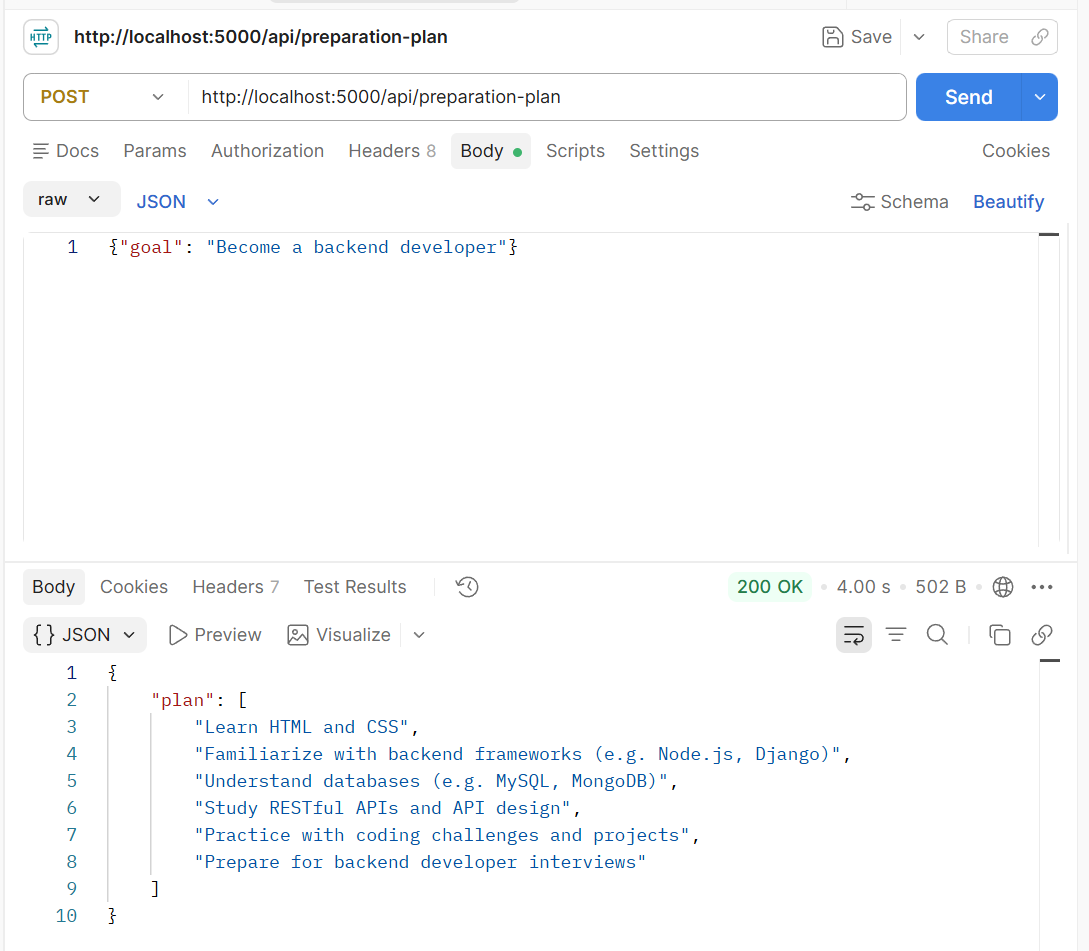
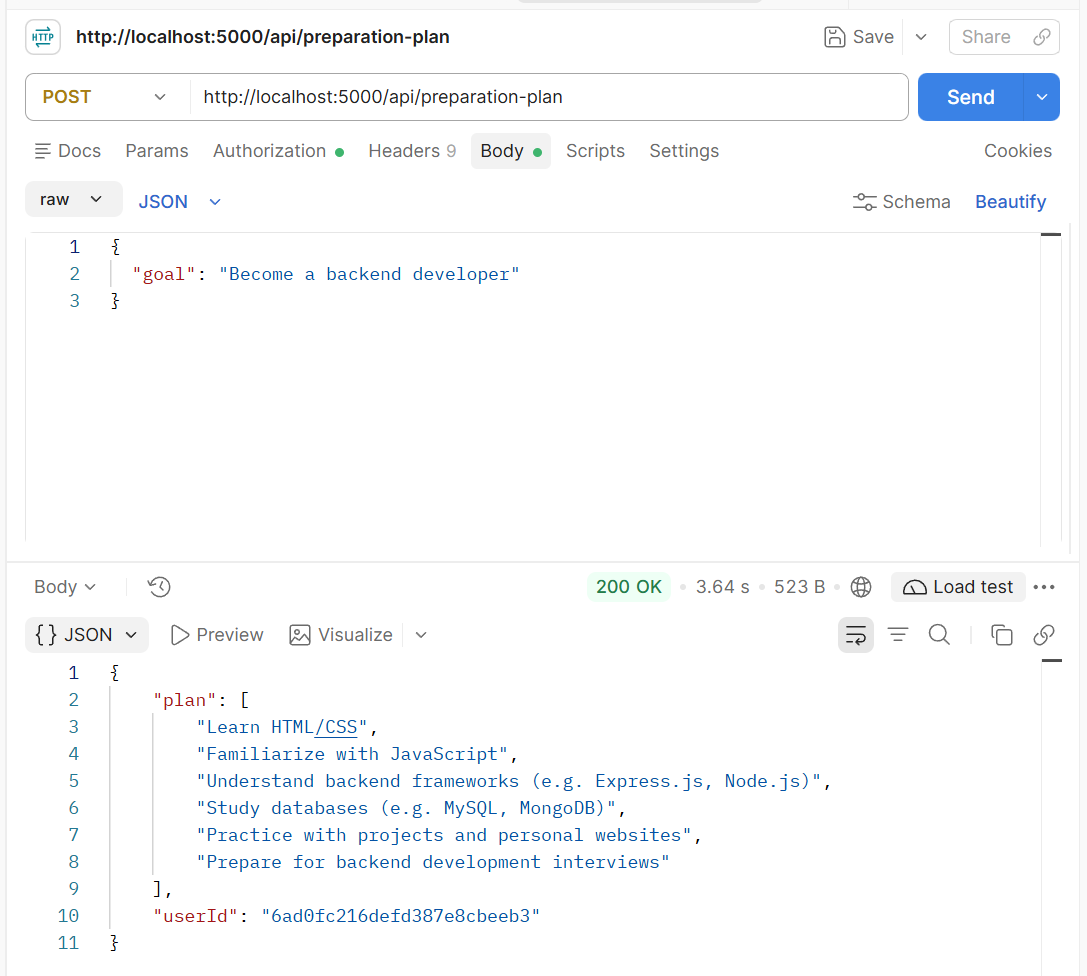
Add JWT tests for Preparation Plan, update API test report and screenshots

diff --git a/test-apis.js b/test-apis.js
@@ -158,9 +158,16 @@ async function main() {
   show("Career chat", "POST", "/api/career-chat", "200 and a text response", r,
     r.status === 200 && typeof r.json?.response === "string" && r.json.response.length > 0);
 
-  // Member 62 - preparation plan
+  // Member 62 - preparation plan (now protected by JWT)
   r = await call("POST", "/api/preparation-plan", { body: { goal: "Become a backend developer" } });
-  show("Preparation plan", "POST", "/api/preparation-plan", "200 or 201 with a plan", r, [200, 201].includes(r.status) && r.text.length > 0);
+  show("Preparation plan - no token", "POST", "/api/preparation-plan", "401", r, r.status === 401);
+
+  if (token) {
+    r = await call("POST", "/api/preparation-plan", { token, body: { goal: "Become a backend developer" } });
+    show("Preparation plan - valid token", "POST", "/api/preparation-plan", "200 or 201 with a plan", r, [200, 201].includes(r.status) && r.text.length > 0);
+  } else {
+    skip("Preparation plan - valid token", "POST", "/api/preparation-plan", "login did not return a token");
+  }
 
     // Member 58 - RAG / vector search
   skip("RAG vector search", "-", "(no search route)", "Dependency Pending - no search route in main; vectorSearchService.js is not wired to any API");

diff --git a/API_TEST_REPORT.md b/API_TEST_REPORT.md
@@ -2,8 +2,8 @@
 
 - **Project:** Career Evidence and Portfolio Coach
 - **Tester:** Member 63
-- **Date:** 10 October 2026 (first test runs), 11 October 2026 (retest after Member 62's fix)
-- **Code tested:** latest `main` branch of the team repository. The retest includes Member 62's fix (pull request #7).
+- **Date:** 10 October 2026 (first test runs), 11 October 2026 (retest after Member 62's fix), 15 October 2026 (rerun after the JWT change)
+- **Code tested:** latest `main` branch of the team repository. The retest includes Member 62's fix (pull request #7). The 15 October run also includes Member 62's JWT change, which is now merged into `main`.
 - **Environment:** server running locally at `http://localhost:5000`, connected to the team's MongoDB Atlas database
 - **How it was run:** `node test-apis.js "<path to a sample PDF>"`
 
@@ -18,6 +18,7 @@
 | Retest after the fix: passed in each run | 20 of 20 |
 | Retest after the fix: failed | 0 |
 | Not tested | 1 (RAG vector search, Dependency Pending) |
+| Latest run after the JWT change (21 tests) | 21 passed, 0 failed, 1 not tested |
 
 One run before the fix gave 19 passed and 1 failed. The failure was **Preparation Plan** (`500`, "Failed to generate plan"). The server log for that run showed `AI error: Unexpected end of JSON input`. The same API passed in the other runs, so it was intermittent. Member 62 then merged a fix, and after pulling it and restarting the server, all 5 retest runs passed. See "Bugs Discovered".
 
@@ -48,13 +49,14 @@ The script checks the status code and that a response body is present (for Caree
 | Evidence, delete | DELETE | Record deleted | 200 | Pass |
 | Evidence, get after delete | GET | 404 | 404 | Pass |
 | Career Chat, `/api/career-chat` | POST | Answer returned | 200 with a text response (local Ollama, `llama3.2`) | Pass |
-| Preparation Plan, `/api/preparation-plan` | POST | Plan returned | 200 with a plan. One 500 before the fix; 5 of 5 retest runs passed after the fix | Pass (retested after fix) |
+| Preparation Plan, `/api/preparation-plan` (no token) | POST | 401 Unauthorized | 401 (route is now protected by JWT after Member 62's change) | Pass |
+| Preparation Plan, `/api/preparation-plan` (valid Bearer token) | POST | Plan returned | 200 with a plan. One 500 before PR #7; 5 of 5 retest runs passed after it; passes with a token after the JWT change | Pass (retested after fix and JWT) |
 
 ## APIs Not Tested and Why
 
 | API | Owner | Reason |
 |---|---|---|
-| RAG vector search | Member 58 | Not Tested - Dependency Pending. No search route exists in `main`: `vectorSearchService.js` is not called by any API, so there is nothing to call. RAG indexing is covered indirectly, since resume upload calls it and returns 201. |
+| RAG vector search | Member 58 | Not Tested - Dependency Pending. No search route exists in `main`: `searchRelevantChunks()` in `vectorSearchService.js` is not called by any API, so there is nothing to call. Member 58 confirmed search is a service function only (tested separately with `node testSearch.js`) and that the Atlas index `rag_vector_index` exists on `evidencechunks`; the Career Chat integration is on their branch, not yet in `main`. RAG indexing is covered indirectly, since resume upload calls it and returns 201. |
 
 MongoDB connectivity (Member 5) was confirmed indirectly: the server connected to Atlas and all database tests above passed.
 
@@ -69,7 +71,7 @@ Minor notes:
 - **Member 51 (Evidence):** the server warns that the update code uses a deprecated Mongoose option (`new`). It still works. Suggested fix: use `returnDocument: 'after'`.
 - **Member 35 (Resume):** on the latest `main` the upload returns `201` with the details inside a `resume` object, while the earlier branch screenshot showed `200` with `text` at the top level. Worth confirming this is the intended final response.
 - **Member 59 (Career Chat):** the answer to "Does my experience support Node.js?" was generic and did not mention any specific stored evidence. The API works, but it was not shown to ground its answer in saved evidence.
-- **Member 58 (RAG):** `resume-api.js` calls `indexText` after `Resume.create`, inside the same try block. If indexing fails, the user gets a `500` even though the resume is already saved. Also, the upload response does not mention chunks, so the API alone cannot prove chunks were stored. The Atlas `$vectorSearch` index on the chunks collection could not be checked, so its existence is unknown (not a confirmed bug).
+- **Member 58 (RAG):** `resume-api.js` calls `indexText` after `Resume.create`, inside the same try block. If indexing fails, the user gets a `500` even though the resume is already saved. Also, the upload response does not mention chunks, so the API alone cannot prove chunks were stored. The Atlas `$vectorSearch` index on the chunks collection could not be checked, so its existence could not be verified; Member 58 says it is named rag_vector_index.
 - **Member 62 (Preparation Plan):** when it worked, it returned a six-step plan for the goal "Become a backend developer".
 
 ## Notes on Test Data
@@ -92,9 +94,13 @@ Retest after Member 62's fix, 5 runs, 20 of 20 passed each time:
 
 ![Retest after fix](screenshots/retest-after-fix.png)
 
-Latest run after the RAG skip was added (20 passed, 0 failed, 1 not tested; RAG vector search marked Not Tested - Dependency Pending):
+Run after the RAG skip was added (20 passed, 0 failed, 1 not tested; RAG vector search marked Not Tested - Dependency Pending):
 
 ![Test run with RAG pending](screenshots/test-run-rag-pending.png)
+
+Latest run after Member 62's JWT change (21 tests; Preparation Plan with no token gives 401, with a valid token gives 200):
+
+![Test run after JWT change](screenshots/test-run-jwt.png)
 
 **2. Successful API responses in Postman**
 
@@ -116,6 +122,6 @@ Preparation Plan (`POST /api/preparation-plan`, 200 OK):
 
 ## Unresolved Issues and Dependencies
 
-- RAG vector search has no API route in `main` yet (Member 58), so it is marked Not Tested - Dependency Pending. The Atlas vector search index on the chunks collection (likely `evidencechunks`) could not be checked through the API.
+- RAG vector search has no API route in `main` yet (Member 58), so it is marked Not Tested - Dependency Pending. Member 58 says search is a service function (`searchRelevantChunks()`), integrated with Career Chat only on their branch, and that the Atlas index `rag_vector_index` exists on `evidencechunks`. This was reported by Member 58 and was not verified through the API. Retest once their branch is merged.
 - Career Chat and Preparation Plan only work on a machine that has Ollama running with `llama3.2`. Team members testing them need the same setup.
-- Preparation Plan was fixed by Member 62 after an intermittent failure. It is worth watching in later runs.
+- Preparation Plan was fixed by Member 62 after an intermittent failure, and Member 62's JWT change (now merged into `main`) made the route require a Bearer token. Both were retested on 15 October: no token gives 401, a valid token gives 200. It is still worth watching in later runs because the original failure was intermittent.
